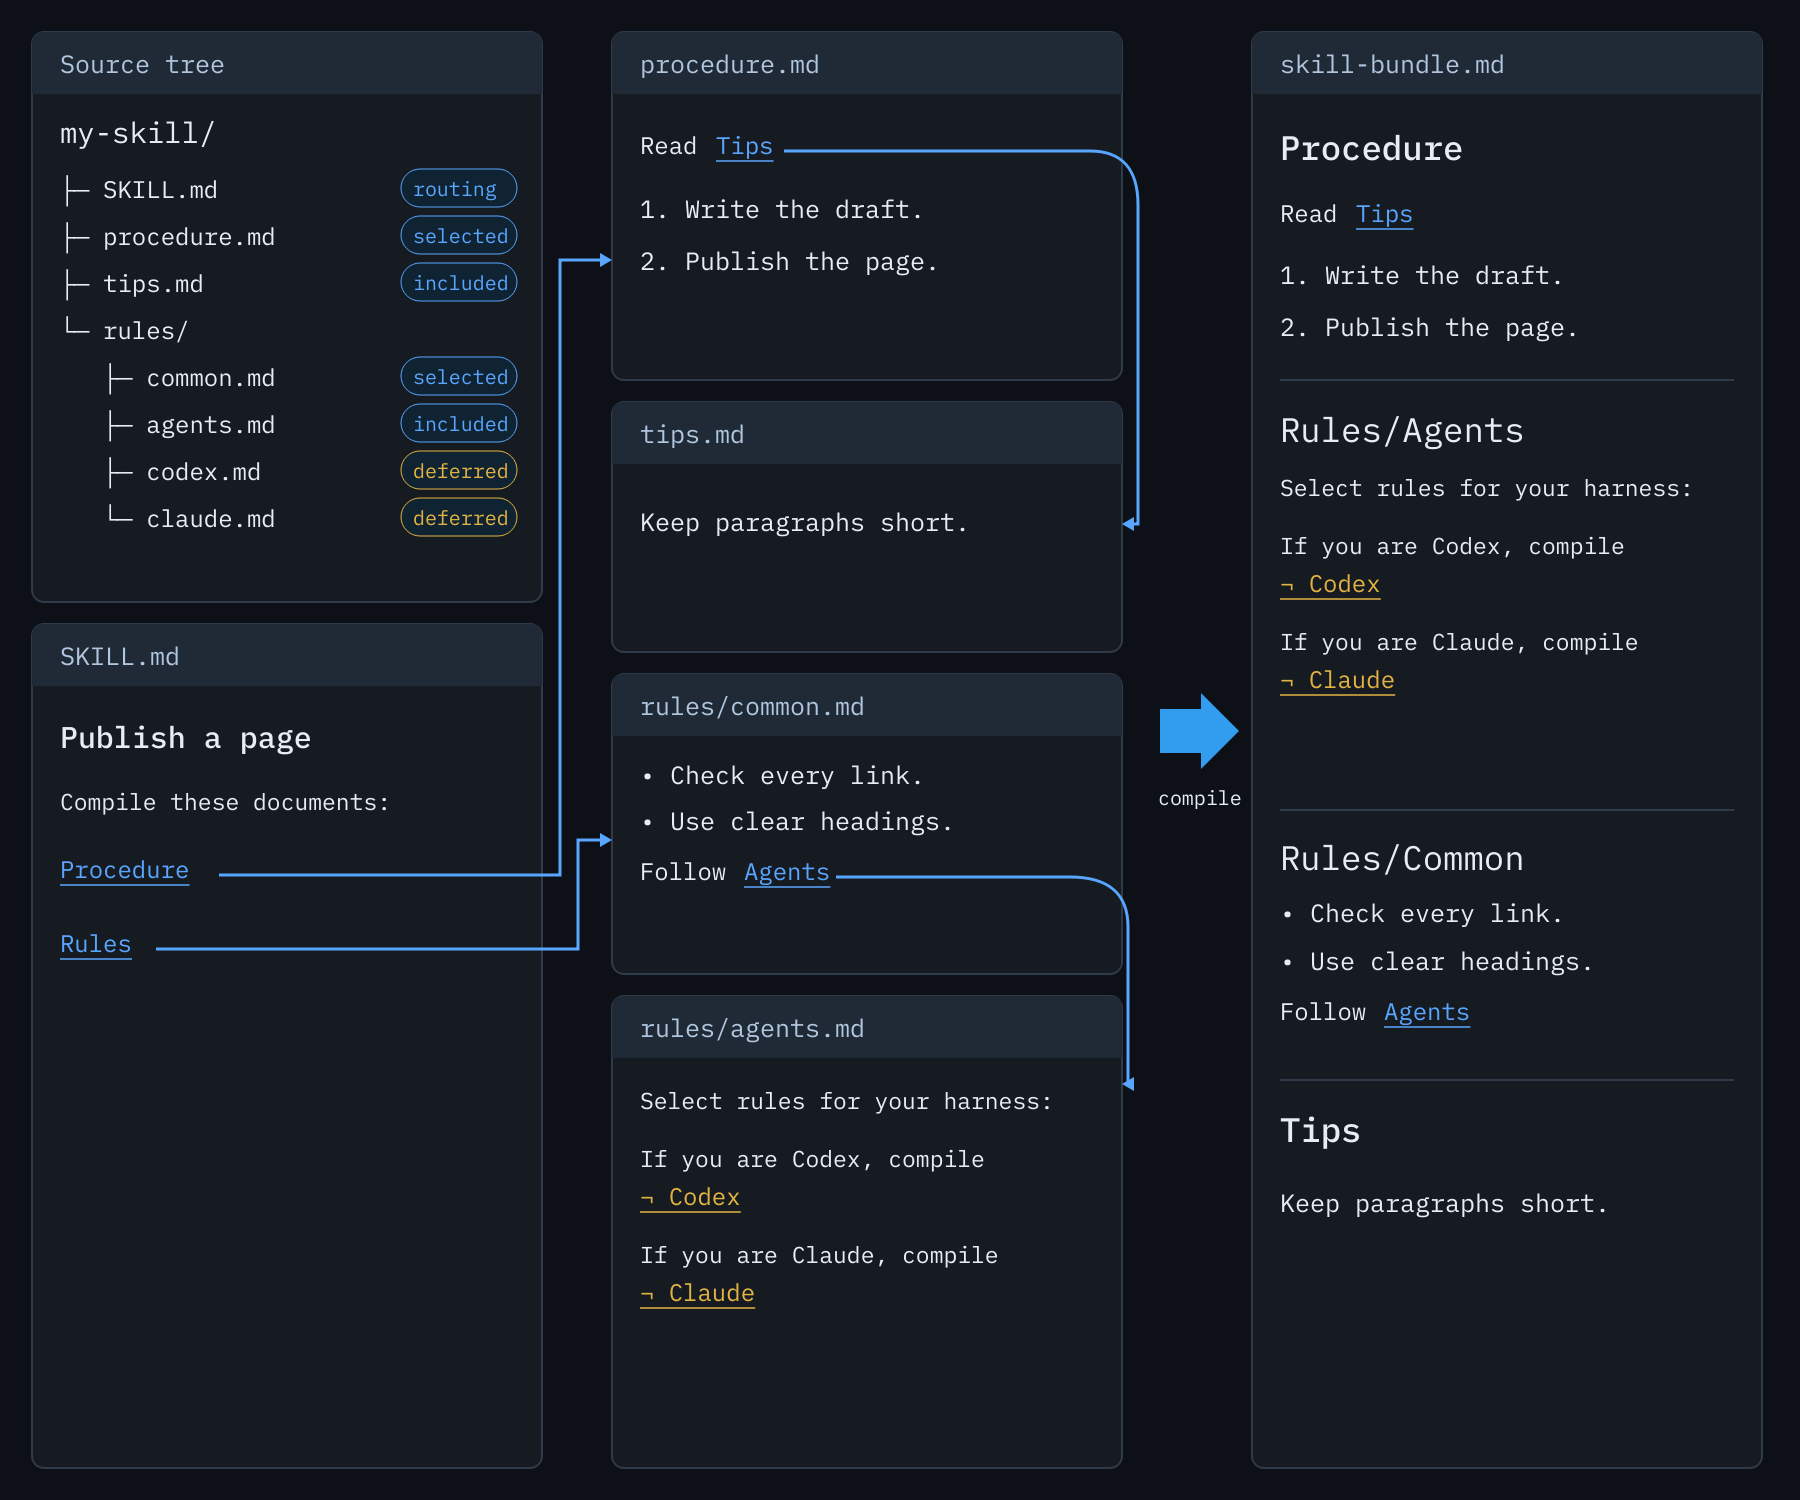
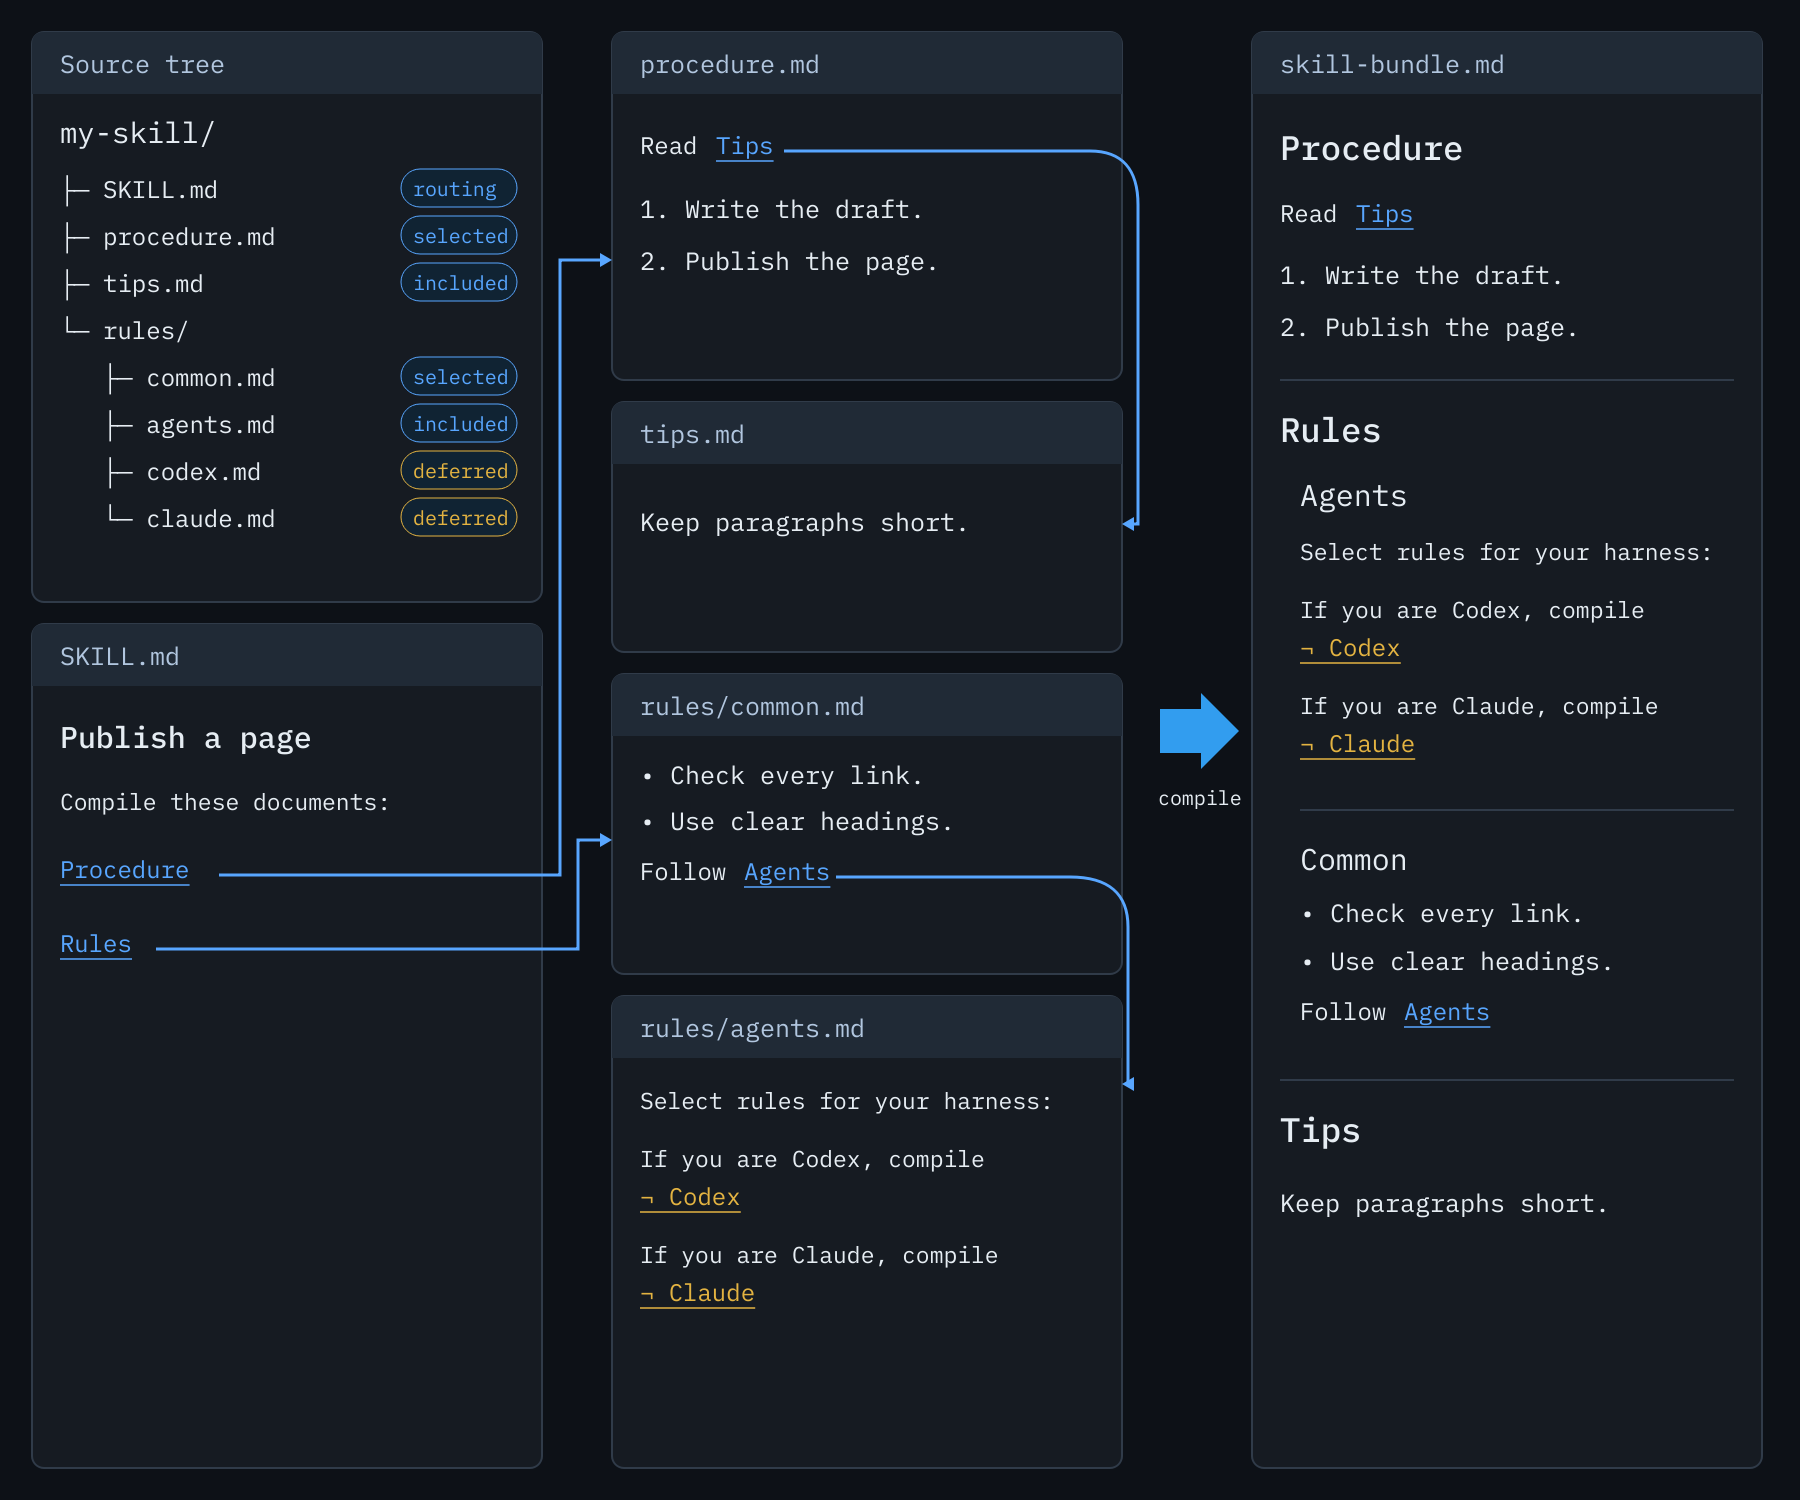
Show Rules grouping in compilation diagrams

diff --git a/README.md b/README.md
@@ -33,14 +33,14 @@ Run these diagram examples from `example/`, using [my-skill](example/my-skill/SK
 
 ```bash
 prosiform --root my-skill \
-  --output skill-bundle.md procedure.md rules/common.md
+  --group rules:1 --output skill-bundle.md procedure.md rules/common.md
 ```
 
-![SKILL.md selects procedure.md and rules/common.md. Procedure includes tips.md; Rules includes rules/agents.md. Each document has its own bundle section; Agents directs each harness to its deferred Codex or Claude rules. SKILL.md and the harness-specific rules are excluded.](docs/images/compilation.png)
+![SKILL.md selects procedure.md and rules/common.md. Procedure includes tips.md; Rules includes rules/agents.md. The bundle groups Agents and Common beneath Rules; Agents directs each harness to its deferred Codex or Claude rules. SKILL.md and the harness-specific rules are excluded.](docs/images/compilation.png)
 
 #### Compile agent-specific rules
 
-The bundled `rules/agents.md` instructions direct the agent to compile the deferred link matching its harness identity.
+The bundled `Rules → Agents` instructions direct the agent to compile the deferred link matching its harness identity.
 
 ```bash
 # Codex

diff --git a/example/README.md b/example/README.md
@@ -161,7 +161,7 @@ Select rules for your harness:
 Follow [Agents](#agents).
 ```
 
-`Overview` is absent here. Each member keeps a distinct destination, `#agents` or `#common`. Generated headings use title case, while deferred filesystem paths keep the source spelling. The ungrouped [README diagrams](../README.md#how-it-works) show the same documents under their title-cased path headings.
+`Overview` is absent here. Each member keeps a distinct destination, `#agents` or `#common`. Generated headings use title case, while deferred filesystem paths keep the source spelling. The [README diagrams](../README.md#how-it-works) show this Rules grouping and the subsequent compilation of deferred agent-specific rules.
 
 ## More fixture examples
 
